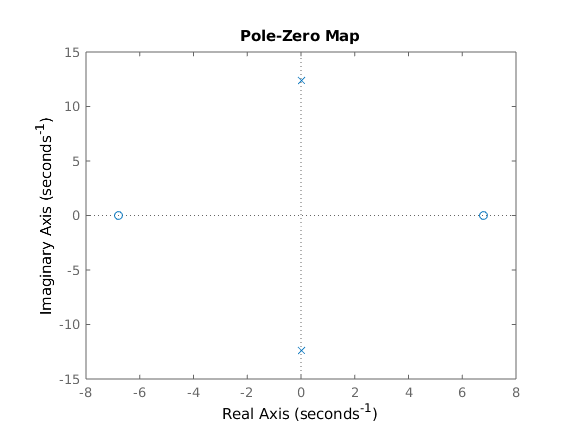
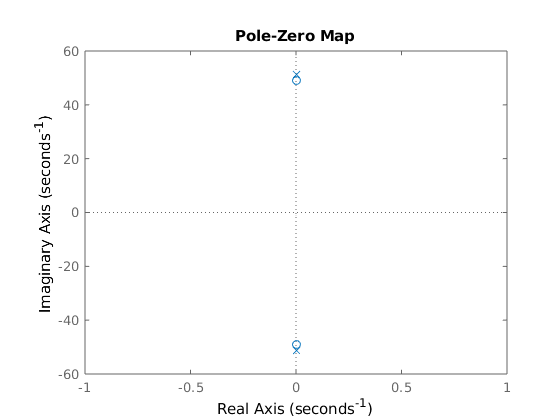
Modifed system variables

diff --git a/html/firstSim.html b/html/firstSim.html
@@ -67,42 +67,43 @@ table td { padding:7px 5px; text-align:left; vertical-align:top; border:1px soli
 
 
   </style></head><body><div class="content"><h2>Contents</h2><div><ul><li><a href="#1">Magnetic Levitation Project</a></li><li><a href="#2">Visualize system</a></li></ul></div><h2 id="1">Magnetic Levitation Project</h2><p>Corey and Eamon</p><pre class="codeinput"><span class="comment">%Define variable for the system</span>
-mu = 1;
-q1 = 1;
-N = 10;
-A = 0.001;
-R = 0.1;
-L = 1;
-g = -9.81;
+<span class="comment">%https://www.daycounter.com/Calculators/Magnets/Solenoid-Force-Calculator.phtml</span>
+<span class="comment">%based off of https://media.digikey.com/pdf/Data%20Sheets/Adafruit%20PDFs/3875_Web.pdf</span>
+mu = pi*4e-7;   <span class="comment">% permeability of space</span>
+q1 = .01;       <span class="comment">% Magnetic force of small magnet in Teslas</span>
+N = 4000;       <span class="comment">% # of turns in solenoid</span>
+A = 60;         <span class="comment">% Area of solenoid in mm^2</span>
+R = 8.66;       <span class="comment">% Internal resistance of solenoid (5V/.6A) in Ohms</span>
+g = -9.81;      <span class="comment">% Acceleration due to gravity</span>
 
 <span class="comment">%The setpoints for the linerization</span>
 <span class="comment">%First we chose our 'b' setpoint for voltage</span>
 <span class="comment">%And find an a that cancels out the constant</span>
 b = 5;
-a = abs(sqrt((5*mu*q1*N*A)/(4*pi*R*L*g)))
+a = abs(sqrt((5*mu*q1*N*A)/(4*pi*R*g)))
 
 <span class="comment">%Z allows us to use cleaner math by placing</span>
 <span class="comment">%all of our constants into one constant.</span>
-Z = (mu*q1*N*A)/(4*pi*R*L)
+Z = (mu*q1*N*A)/(4*pi*R)
 
 <span class="comment">%Define the system</span>
 sys = tf([Z/a^2],[1 0 Z*b/a^3])
 </pre><pre class="codeoutput">
 a =
 
-    0.0637
+    0.0038
 
 
 Z =
 
-    0.0080
+   2.7714e-05
 
 
 sys =
  
     1.962
-  ---------
-  s^2 + 154
+  ----------
+  s^2 + 2610
  
 Continuous-time transfer function.
 
@@ -112,8 +113,7 @@ pzmap(sys)
 figure
 step(sys)
 
-<span class="comment">% step(sys)</span>
-
+<span class="comment">%open loop</span>
 Gol = sys-(0.001*9.8)
 
 figure
@@ -121,9 +121,9 @@ pzmap(Gol)
 </pre><pre class="codeoutput">
 Gol =
  
-  -0.0098 s^2 + 0.4524
-  --------------------
-       s^2 + 154
+  -0.0098 s^2 - 23.62
+  -------------------
+      s^2 + 2610
  
 Continuous-time transfer function.
 
@@ -134,23 +134,24 @@ Continuous-time transfer function.
 
 
 %Define variable for the system
-mu = 1;
-q1 = 1;
-N = 10;
-A = 0.001;
-R = 0.1;
-L = 1;
-g = -9.81;
+%https://www.daycounter.com/Calculators/Magnets/Solenoid-Force-Calculator.phtml
+%based off of https://media.digikey.com/pdf/Data%20Sheets/Adafruit%20PDFs/3875_Web.pdf
+mu = pi*4e-7;   % permeability of space
+q1 = .01;       % Magnetic force of small magnet in Teslas
+N = 4000;       % # of turns in solenoid
+A = 60;         % Area of solenoid in mm^2
+R = 8.66;       % Internal resistance of solenoid (5V/.6A) in Ohms
+g = -9.81;      % Acceleration due to gravity 
 
 %The setpoints for the linerization
 %First we chose our 'b' setpoint for voltage
 %And find an a that cancels out the constant
 b = 5;
-a = abs(sqrt((5*mu*q1*N*A)/(4*pi*R*L*g)))
+a = abs(sqrt((5*mu*q1*N*A)/(4*pi*R*g)))
 
 %Z allows us to use cleaner math by placing
 %all of our constants into one constant.
-Z = (mu*q1*N*A)/(4*pi*R*L)
+Z = (mu*q1*N*A)/(4*pi*R)
 
 %Define the system
 sys = tf([Z/a^2],[1 0 Z*b/a^3])
@@ -162,8 +163,7 @@ pzmap(sys)
 figure
 step(sys)
 
-% step(sys)
-
+%open loop
 Gol = sys-(0.001*9.8)
 
 figure

diff --git a/firstSim.m b/firstSim.m
@@ -3,23 +3,24 @@
 
 
 %Define variable for the system
-mu = 1;
-q1 = 1;
-N = 10;
-A = 0.001;
-R = 0.1;
-L = 1;
-g = -9.81;
+%https://www.daycounter.com/Calculators/Magnets/Solenoid-Force-Calculator.phtml
+%based off of https://media.digikey.com/pdf/Data%20Sheets/Adafruit%20PDFs/3875_Web.pdf
+mu = pi*4e-7;   % permeability of space
+q1 = .01;       % Magnetic force of small magnet in Teslas
+N = 4000;       % # of turns in solenoid
+A = 60;         % Area of solenoid in mm^2
+R = 8.66;       % Internal resistance of solenoid (5V/.6A) in Ohms
+g = -9.81;      % Acceleration due to gravity 
 
 %The setpoints for the linerization
 %First we chose our 'b' setpoint for voltage
 %And find an a that cancels out the constant
 b = 5;
-a = abs(sqrt((5*mu*q1*N*A)/(4*pi*R*L*g)))
+a = abs(sqrt((5*mu*q1*N*A)/(4*pi*R*g)))
 
 %Z allows us to use cleaner math by placing
 %all of our constants into one constant.
-Z = (mu*q1*N*A)/(4*pi*R*L)
+Z = (mu*q1*N*A)/(4*pi*R)
 
 %Define the system
 sys = tf([Z/a^2],[1 0 Z*b/a^3])
